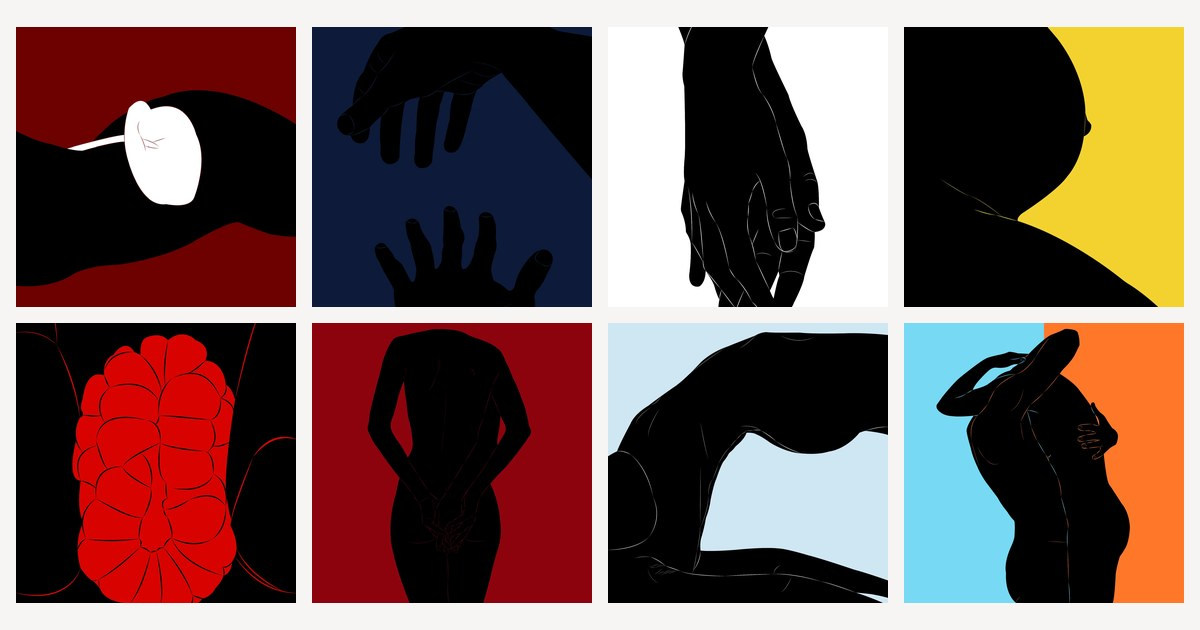
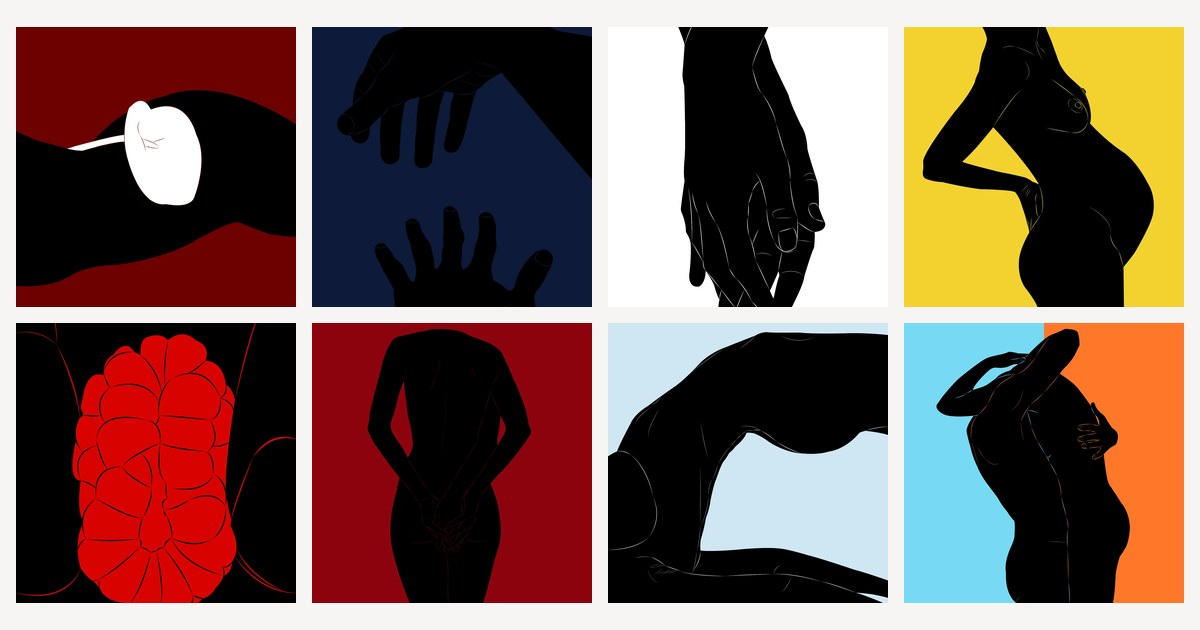
Life: new selection (#02, #03, #08, #11, #17, #18), #03 as cover
Claude-Session: https://claude.ai/code/session_01Cbqb35m8ngvkfUaEVAkoC4

Changed region(s): [[0.74, 0.0302, 0.9867, 0.5127], [0.8633, 0.0302, 0.8942, 0.1206]]

diff --git a/src/data/voidSeries.ts b/src/data/voidSeries.ts
@@ -48,12 +48,12 @@ import voidNutritious05 from "@/assets/void-nutritious-05.webp";
 import voidNutritious06 from "@/assets/void-nutritious-06.webp";
 import voidNutritious07 from "@/assets/void-nutritious-07.webp";
 import voidNutritious08 from "@/assets/void-nutritious-08.webp";
-import voidLife from "@/assets/void-life.webp";
-import voidLife02 from "@/assets/void-life-02.webp";
-import voidLife03 from "@/assets/void-life-03.webp";
-import voidLife04 from "@/assets/void-life-04.webp";
-import voidLife05 from "@/assets/void-life-05.webp";
-import voidLife06 from "@/assets/void-life-06.webp";
+import voidLife02 from "@/assets/void-life-03.webp";
+import voidLife03 from "@/assets/void-life-04.webp";
+import voidLife08 from "@/assets/void-life-06.webp";
+import voidLife11 from "@/assets/void-life-n11.webp";
+import voidLife17 from "@/assets/void-life-n17.webp";
+import voidLife18 from "@/assets/void-life-n18.webp";
 import voidLife07 from "@/assets/void-life-07.webp";
 import voidLighter from "@/assets/void-lighter.webp";
 import voidLighter02 from "@/assets/void-lighter-02.webp";
@@ -228,14 +228,14 @@ export const voidSeries: VoidSeriesData[] = [
     ground: "Yellow",
     caption: "For once, the centre was full.",
     total: 17,
-    cover: voidLife,
+    cover: voidLife03,
     works: [
-      { src: voidLife02, ratio: 0.826, caption: "#01" },
-      { src: voidLife03, ratio: 0.708, caption: "#02" },
-      { src: voidLife04, ratio: 1.000, caption: "#03" },
-      { src: voidLife, ratio: 0.785, caption: "#04" },
-      { src: voidLife05, ratio: 1.520, caption: "#05" },
-      { src: voidLife06, ratio: 1.081, caption: "#08" },
+      { src: voidLife02, ratio: 0.708, caption: "#02" },
+      { src: voidLife03, ratio: 1.000, caption: "#03" },
+      { src: voidLife08, ratio: 1.081, caption: "#08" },
+      { src: voidLife11, ratio: 1.000, caption: "#11" },
+      { src: voidLife17, ratio: 0.812, caption: "#17" },
+      { src: voidLife18, ratio: 1.000, caption: "#18" },
     ],
   },
   {
